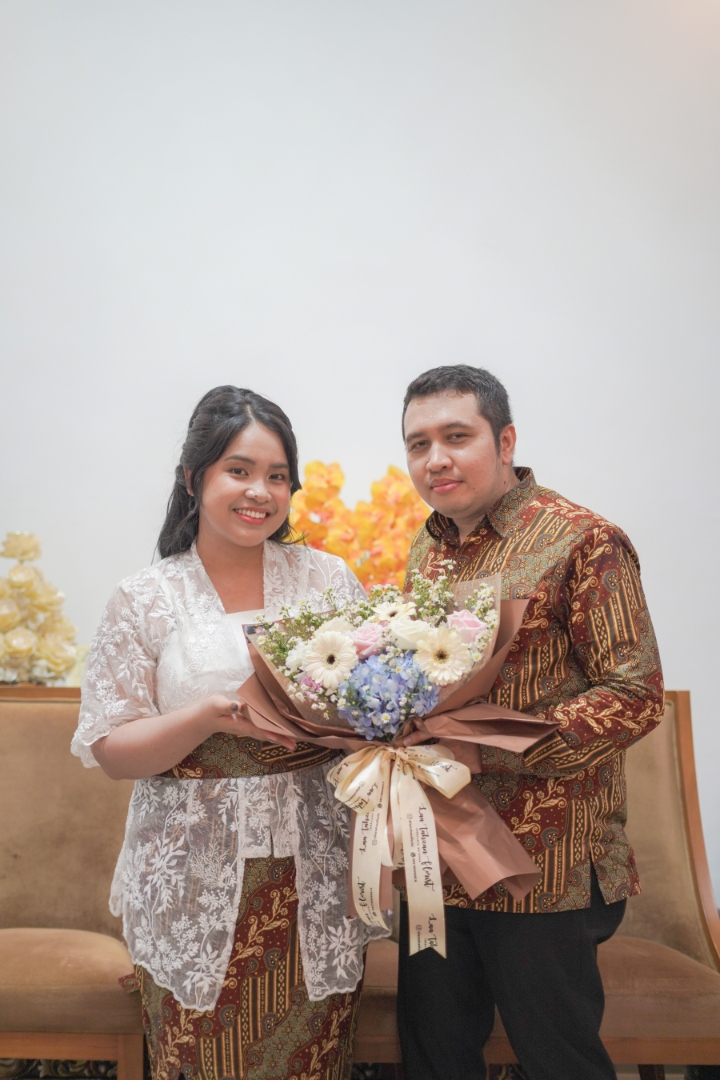
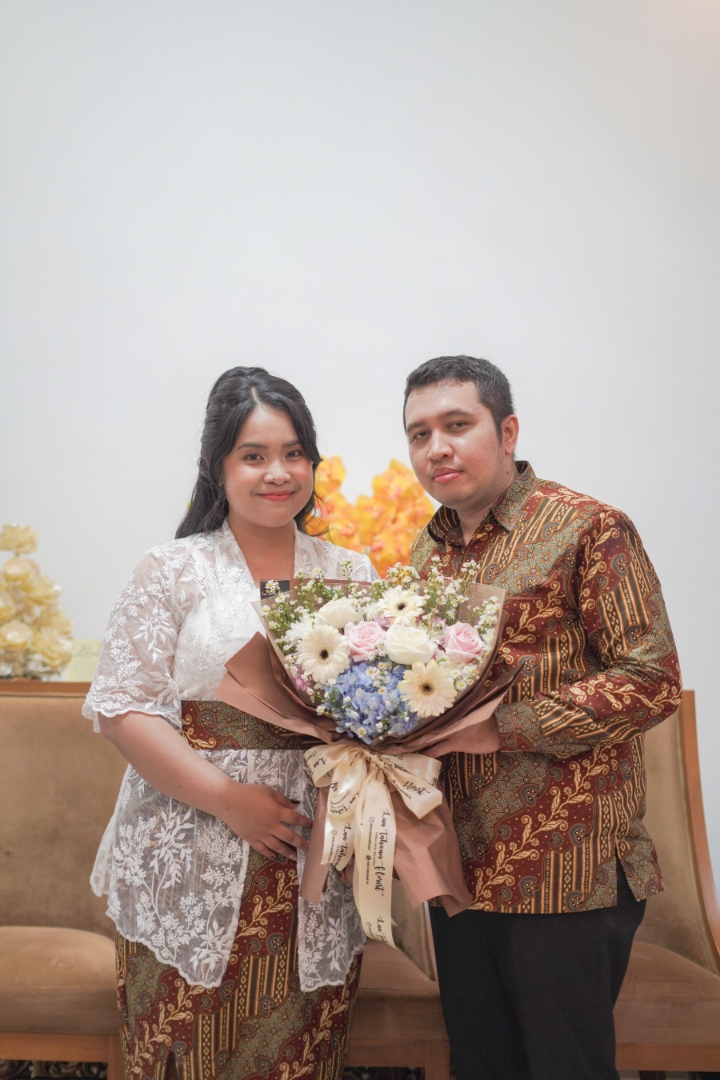
sekali lagi

Changed region(s): [[0.0, 0.3056, 1.0, 1.0], [0.8556, 0.9778, 1.0, 1.0], [0.6722, 0.9167, 0.7333, 1.0]]

diff --git a/app/components/MainContent.tsx b/app/components/MainContent.tsx
@@ -419,19 +419,25 @@ const WeddingScreen = ({ name }: WeddingScreenProps) => {
             >
               <div
                 ref={endRef}
-                className={` ${isEndInView ? "active" : ""} fadeInMove `}
+                className={` ${isEndInView ? "active" : ""} fadeInMove flex flex-col items-center -mt-10 `}
               >
-                <h1 className="text-3xl text-black  font-ovo text-center uppercase">
+                <h1 className="text-3xl text-black font-ovo text-center uppercase tracking-[0.2em]">
                   {config.thankyou}
                 </h1>
 
-                <div className="mt-5 mx-auto flex flex-col ">
-                  <p className="text-sm font-legan text-black text-center">
+                <div className="mt-2 mx-auto flex flex-col items-center ">
+                  <p className="text-[10px] md:text-xs font-legan text-black text-center whitespace-nowrap opacity-90 tracking-wide">
                     {config.thankyouDetail}
                   </p>
-                  <p className="text-sm rounded-full text-center font-ovo mt-5 px-6 py-2 text-black uppercase">
-                    {config.coupleNames}
+                  {/* Pembatas halus biar gak hambar (opsional, hapus kalau gak suka) */}
+    <div className="h-[1px] w-8 bg-gray-300 my-1"></div>
+                  {/* Teks With Love yang baru */}
+    <div className="mt-4 flex flex-col items-center">
+      <p className="text-xs font-legan italic text-gray-600 mb-1">With Love,</p>
+      <p className="text-xl font-ovo text-black uppercase tracking-[0.2em]">
+        Bella & Teofilus
                   </p>
+                </div>
                 </div>
               </div>
 

diff --git a/app/lib/typewriterSound.ts b/app/lib/typewriterSound.ts
@@ -1,0 +1,14 @@
+// Simple typewriter sound effect using HTML5 Audio API
+export function playTypewriterSound() {
+  if (typeof window === 'undefined') return;
+  let audio = document.getElementById('typewriter-audio') as HTMLAudioElement | null;
+  if (!audio) {
+    audio = document.createElement('audio');
+    audio.id = 'typewriter-audio';
+    audio.src = '/music/typewriter.mp3';
+    audio.preload = 'auto';
+    document.body.appendChild(audio);
+  }
+  audio.currentTime = 0;
+  audio.play();
+}